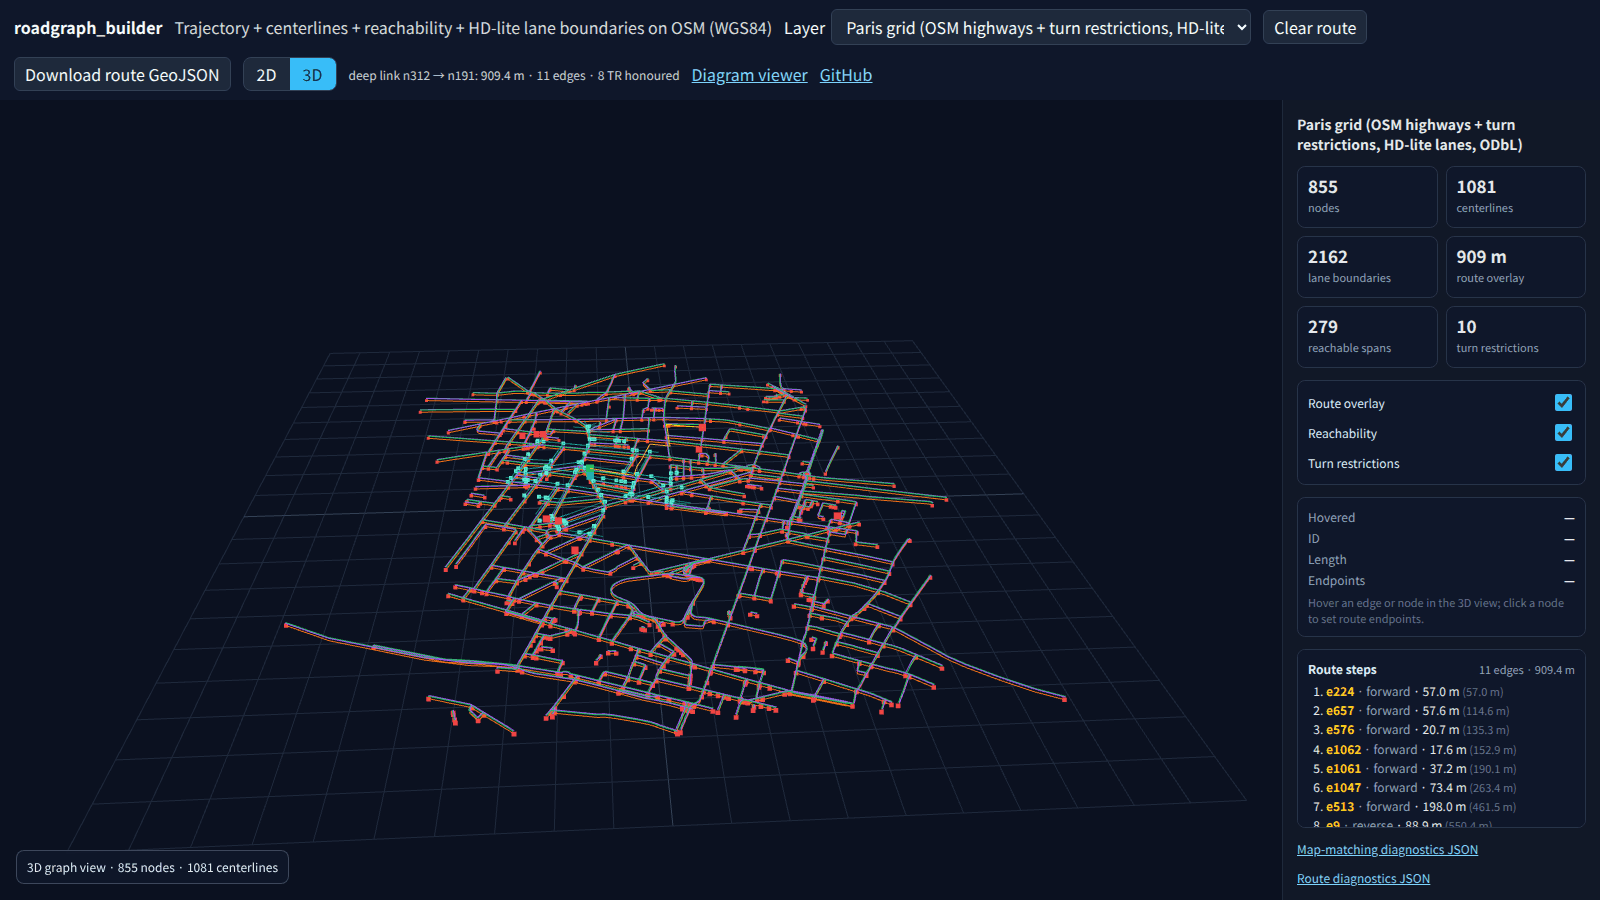
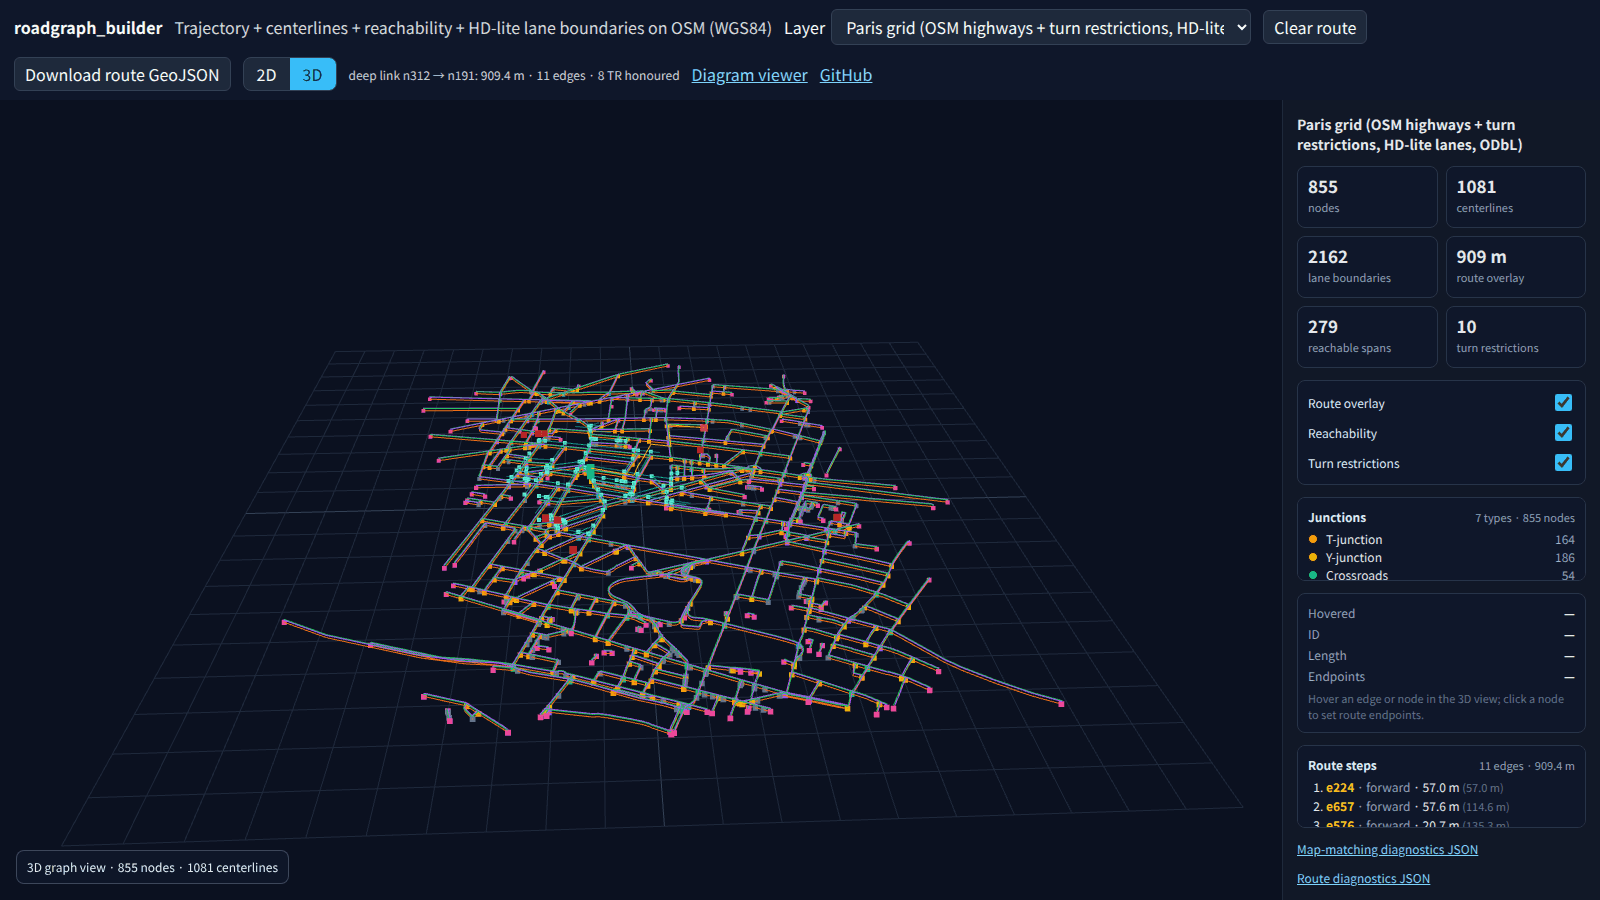
feat(viewer): colour graph nodes by junction type in 2D and 3D
All graph nodes rendered as one uniform red dot, so crossroads, T-
junctions, complex junctions, dead ends, and through-corners all
looked identical on the console. The pipeline actually classifies
every node as junction_type (for multi_branch subtypes: t_junction /
y_junction / crossroads / x_junction / complex_junction) or
junction_hint (the fallback: through_or_corner / dead_end / self_loop
/ cul_de_sac / other), and each GeoJSON node feature already carries
that classification. The viewer just was not reading it.

This change paints that classification.

Palette + helpers. docs/js/map_console.js gains JUNCTION_ORDER,
JUNCTION_COLORS, and JUNCTION_LABELS with a junctionCategory(props)
helper (junction_type wins, junction_hint is the fallback, unknown
values collapse to "other"). The palette stays readable on both the
light OSM basemap and the dark 3D canvas: T = amber, Y = yellow,
crossroads = emerald, X = cyan, complex = violet, through/corner =
slate, dead end = pink, self-loop = rose, cul-de-sac = fuchsia.

2D. pointLayer(kind=node) now uses the category fill, keeping the
dark outline so markers stay legible over OSM tiles.

3D. The node Points cloud switched from a single PointsMaterial
colour to vertexColors:true with a Float32BufferAttribute('color')
built during render3DScene(). threeState.nodeCategories[] runs in
parallel with nodeIds so pickSceneHit() can return a category on node
hits; setHoverCard() now reports "Node · T-junction" (etc.) on 3D
[…]

diff --git a/docs/js/map_console.js b/docs/js/map_console.js
@@ -29,9 +29,80 @@ let activeStats = {};
 let threeModule = null;
 let threeState = null;
 
+// Graph node colouring keyed off pipeline.junction_topology classification.
+// junction_type (subtype of multi_branch: t/y/crossroads/x/complex) wins over
+// junction_hint; "other" is the fallback for anything unexpected so the viewer
+// always paints something. Order here doubles as display order in the legend
+// and the inspector breakdown. Defined before the Leaflet legend so the
+// legend's onAdd (called synchronously by legend.addTo) can reference them.
+const JUNCTION_ORDER = [
+  "t_junction",
+  "y_junction",
+  "crossroads",
+  "x_junction",
+  "complex_junction",
+  "through_or_corner",
+  "dead_end",
+  "self_loop",
+  "cul_de_sac",
+  "other",
+];
+const JUNCTION_COLORS = {
+  t_junction: "#f59e0b",
+  y_junction: "#eab308",
+  crossroads: "#10b981",
+  x_junction: "#06b6d4",
+  complex_junction: "#8b5cf6",
+  through_or_corner: "#64748b",
+  dead_end: "#ec4899",
+  self_loop: "#f43f5e",
+  cul_de_sac: "#d946ef",
+  other: "#b91c1c",
+};
+const JUNCTION_LABELS = {
+  t_junction: "T-junction",
+  y_junction: "Y-junction",
+  crossroads: "Crossroads",
+  x_junction: "X-junction",
+  complex_junction: "Complex",
+  through_or_corner: "Through / corner",
+  dead_end: "Dead end",
+  self_loop: "Self-loop",
+  cul_de_sac: "Cul-de-sac",
+  other: "Other",
+};
+
+function junctionCategory(props) {
+  const raw =
+    (props && (props.junction_type || props.junction_hint)) || "other";
+  return JUNCTION_COLORS[raw] ? raw : "other";
+}
+
+function junctionColor(props) {
+  return JUNCTION_COLORS[junctionCategory(props)];
+}
+
 const legend = L.control({ position: "bottomright" });
 legend.onAdd = function () {
   const div = L.DomUtil.create("div", "map-legend");
+  const junctionRows = [
+    "t_junction",
+    "y_junction",
+    "crossroads",
+    "x_junction",
+    "complex_junction",
+    "through_or_corner",
+    "dead_end",
+  ]
+    .map(
+      (cat) =>
+        '<div class="lg"><span class="sw dot" style="background:' +
+        JUNCTION_COLORS[cat] +
+        ';border:2px solid #fff;box-sizing:border-box"></span> Node · ' +
+        JUNCTION_LABELS[cat] +
+        "</div>"
+    )
+    .join("");
   div.innerHTML =
     "<strong>Legend</strong>" +
     '<div class="lg"><span class="sw" style="background:#2563eb"></span> GPS trajectory</div>' +
@@ -40,7 +111,7 @@ legend.onAdd = function () {
     '<div class="lg"><span class="sw" style="background:#9333ea"></span> Lane boundary (R)</div>' +
     '<div class="lg"><span class="sw" style="background:#0f766e"></span> Reachable span</div>' +
     '<div class="lg"><span class="sw" style="background:#facc15"></span> Route (Dijkstra)</div>' +
-    '<div class="lg"><span class="sw dot" style="background:#b91c1c;border:2px solid #fff;box-sizing:border-box"></span> Graph node</div>' +
+    junctionRows +
     '<div class="lg"><span class="sw dot" style="background:#0f766e;border:2px solid #fff;box-sizing:border-box"></span> Reachability start</div>' +
     '<div class="lg"><span class="sw dot" style="background:#10b981;border:2px solid #fff;box-sizing:border-box"></span> Route start</div>' +
     '<div class="lg"><span class="sw dot" style="background:#ef4444;border:2px solid #fff;box-sizing:border-box"></span> Route end</div>' +
@@ -118,9 +189,9 @@ function pointLayer(f, latlng) {
   if (k === "node") {
     return L.circleMarker(latlng, {
       radius: 6,
-      fillColor: "#b91c1c",
-      color: "#fff",
-      weight: 2,
+      fillColor: junctionColor(f.properties || {}),
+      color: "#0f172a",
+      weight: 1.5,
       opacity: 1,
       fillOpacity: 0.95,
     });
@@ -362,7 +433,13 @@ function pickSceneHit() {
     if (inters.length) {
       const index = inters[0].index || 0;
       const nodeId = s.nodeIds[index] || null;
-      return { kind: "node", nodeId, distance: inters[0].distance };
+      const category = s.nodeCategories ? s.nodeCategories[index] || null : null;
+      return {
+        kind: "node",
+        nodeId,
+        category,
+        distance: inters[0].distance,
+      };
     }
   }
   if (s.pickableLines.length) {
@@ -417,7 +494,10 @@ function setHoverCard(hit) {
     return;
   }
   if (hit.kind === "node") {
-    kindEl.textContent = "Node";
+    const categoryLabel = hit.category
+      ? JUNCTION_LABELS[hit.category] || hit.category
+      : "Node";
+    kindEl.textContent = "Node · " + categoryLabel;
     labelEl.textContent = "Node ID";
     idEl.textContent = hit.nodeId || "—";
     lenEl.textContent = "—";
@@ -548,17 +628,32 @@ async function render3DScene() {
 
     const nodePoints = [];
     const nodeIds = [];
+    const nodeColors = [];
+    const nodeCategories = [];
     for (const feature of (scenePayload.base.features || [])) {
       if (feature.properties?.kind !== "node" || feature.geometry?.type !== "Point") continue;
       nodePoints.push(point(feature.geometry.coordinates, "node"));
       nodeIds.push(String(feature.properties.node_id || ""));
+      const category = junctionCategory(feature.properties);
+      nodeCategories.push(category);
+      const col = new THREE.Color(JUNCTION_COLORS[category]);
+      nodeColors.push(col.r, col.g, col.b);
     }
     threeState.pickableNodePoints = null;
     threeState.nodeIds = nodeIds;
+    threeState.nodeCategories = nodeCategories;
     threeState.nodePositions = nodePoints;
     if (nodePoints.length) {
       const geom = new THREE.BufferGeometry().setFromPoints(nodePoints);
-      const mat = new THREE.PointsMaterial({ color: 0xef4444, size: 2.8, sizeAttenuation: true });
+      geom.setAttribute(
+        "color",
+        new THREE.Float32BufferAttribute(nodeColors, 3)
+      );
+      const mat = new THREE.PointsMaterial({
+        vertexColors: true,
+        size: 3.4,
+        sizeAttenuation: true,
+      });
       const pts = new THREE.Points(geom, mat);
       root.add(pts);
       threeState.pickableNodePoints = pts;
@@ -719,15 +814,51 @@ function summarizeBase(data) {
     routeLength: NaN,
     reachableEdges: 0,
     restrictions: 0,
+    junctionCounts: {},
   };
   for (const f of data.features || []) {
     const p = f.properties || {};
-    if (p.kind === "node") stats.nodes += 1;
+    if (p.kind === "node") {
+      stats.nodes += 1;
+      const cat = junctionCategory(p);
+      stats.junctionCounts[cat] = (stats.junctionCounts[cat] || 0) + 1;
+    }
     if (p.kind === "centerline" || p.kind === "lane_centerline") stats.edges += 1;
     if (p.kind === "lane_boundary_left" || p.kind === "lane_boundary_right") stats.lanes += 1;
     if (p.kind === "trajectory") stats.trajectory += 1;
   }
   return stats;
+}
+
+function renderJunctionsBreakdown(counts, totalNodes) {
+  const list = document.getElementById("junctions-list");
+  const total = document.getElementById("junctions-total");
+  const card = document.getElementById("junctions-card");
+  if (!list || !total || !card) return;
+  list.innerHTML = "";
+  let shown = 0;
+  for (const cat of JUNCTION_ORDER) {
+    const n = counts?.[cat] || 0;
+    if (!n) continue;
+    shown += 1;
+    const li = document.createElement("li");
+    const dot = document.createElement("span");
+    dot.className = "jdot";
+    dot.style.background = JUNCTION_COLORS[cat];
+    const label = document.createElement("span");
+    label.className = "jlabel";
+    label.textContent = JUNCTION_LABELS[cat] || cat;
+    const count = document.createElement("span");
+    count.className = "jcount";
+    count.textContent = String(n);
+    li.appendChild(dot);
+    li.appendChild(label);
+    li.appendChild(count);
+    list.appendChild(li);
+  }
+  total.textContent =
+    shown > 0 ? `${shown} types · ${totalNodes} nodes` : `${totalNodes} nodes`;
+  card.hidden = !shown;
 }
 
 function routeLengthFromGeo(data) {
@@ -1310,6 +1441,7 @@ async function show(which) {
   scenePayload = { base: data, route: null, reachable: null, restrictions: [] };
   activeStats = summarizeBase(data);
   updateInspector(which, activeStats);
+  renderJunctionsBreakdown(activeStats.junctionCounts, activeStats.nodes);
 
   const gj = L.geoJSON(data, {
     style: styleLine,

diff --git a/docs/map.html b/docs/map.html
@@ -207,6 +207,60 @@
         color: #64748b;
         font-size: 11px;
       }
+      .junctions-card {
+        display: grid;
+        gap: 6px;
+        padding: 10px;
+        border: 1px solid #273449;
+        border-radius: 8px;
+        background: #0f172a;
+        font-size: 12px;
+        color: #e5e7eb;
+        max-height: 180px;
+        overflow: auto;
+      }
+      .junctions-head {
+        display: flex;
+        justify-content: space-between;
+        align-items: baseline;
+        color: #dbeafe;
+      }
+      .junctions-head strong {
+        font-size: 12px;
+      }
+      .junctions-head span {
+        color: #94a3b8;
+        font-size: 11px;
+      }
+      .junctions-list {
+        list-style: none;
+        margin: 0;
+        padding: 0;
+        display: grid;
+        gap: 3px;
+      }
+      .junctions-list li {
+        display: flex;
+        align-items: center;
+        gap: 8px;
+        line-height: 1.25;
+      }
+      .junctions-list .jdot {
+        display: inline-block;
+        width: 10px;
+        height: 10px;
+        border-radius: 50%;
+        border: 1px solid #0b1220;
+        flex: 0 0 auto;
+      }
+      .junctions-list .jlabel {
+        flex: 1 1 auto;
+        color: #e5e7eb;
+      }
+      .junctions-list .jcount {
+        color: #94a3b8;
+        font-variant-numeric: tabular-nums;
+      }
       .bar {
         position: relative;
         z-index: 10;
@@ -388,6 +442,13 @@
           <label>Route overlay <input type="checkbox" id="toggle-route" checked /></label>
           <label>Reachability <input type="checkbox" id="toggle-reachability" checked /></label>
           <label>Turn restrictions <input type="checkbox" id="toggle-restrictions" checked /></label>
+        </div>
+        <div class="junctions-card" id="junctions-card" aria-label="Junction types">
+          <div class="junctions-head">
+            <strong>Junctions</strong>
+            <span id="junctions-total">—</span>
+          </div>
+          <ul class="junctions-list" id="junctions-list"></ul>
         </div>
         <div class="hover-card" id="hover-card" aria-live="polite">
           <div class="hover-row"><span>Hovered</span><strong id="hover-kind">—</strong></div>

diff --git a/docs/PLAN.md b/docs/PLAN.md
@@ -6,7 +6,7 @@
 > このファイル → [`docs/ARCHITECTURE.md`](./ARCHITECTURE.md)（Mermaid 6 枚 + CLI 対応表 +
 > モジュール索引）→ [`CHANGELOG.md`](../CHANGELOG.md) の順。
 
-*最終更新: 2026-04-24 session（V1 実測 / camera warning fix / perf flake fix / docs sync / completions sync / Paris accuracy refresh / Berlin tuning sweep / README+docs visual preview + measured-results cards polish + README measured-results compacting / float32 opt-in + drift report + compare script + 1M synthetic memory profile + OSM public-trace replay profile / release bundle byte + normalized-manifest gate + manifest policy docs polish / private repo Pages blocked note / CLI boundary split wave 完了 / README release surface 整理 / v0.7.1 release + asset verification / packaging metadata smoke / 0.7.2.dev0 reopen / Actions Node24 update / release+PyPI dry-run / routing hot-path perf / nearest spatial index / cache invalidation hardening / build graph spatial merge perf / T-junction segment index perf / lean near-parallel merge loop / GeoJSON export compact path / compact bundle JSON writer / README quick-start smoke / release readiness dry-run refresh / reachable service-area CLI / reachable docs overlay / reachable benchmark coverage / benchmark baseline JSON / reachability analyzer perf / routing core split / RoutePlanner perf / GitHub star-growth surfaces / launch kit docs / safe A* routing / route explain diagnostics / route explain docs surface / route explain comparison UI / route diagnostics README screenshot / functional shortest_path planner cache + sampled validation / nearest-edge projection index / match-trajectory explain diagnostics / HMM bridge ambiguity benchmark / HMM adjacency reuse perf / HMM tail-cost cache / HMM long trajectory benchmark / edge-index cell tuning / 2D/3D map console / PLAN handoff expansion / map console pushed + CI green / Claude handoff refresh / map console hero screenshots / map console browser smoke opt-in pytest / map console JS split + 3D raycaster picking / map console deep link + route steps inspector / map console route export + deep-link 自動 fit + hero screenshot refresh / Paris grid + Berlin Mitte HD-lite lanes & committed viewer dataset）を反映済み。*
+*最終更新: 2026-04-24 session（V1 実測 / camera warning fix / perf flake fix / docs sync / completions sync / Paris accuracy refresh / Berlin tuning sweep / README+docs visual preview + measured-results cards polish + README measured-results compacting / float32 opt-in + drift report + compare script + 1M synthetic memory profile + OSM public-trace replay profile / release bundle byte + normalized-manifest gate + manifest policy docs polish / private repo Pages blocked note / CLI boundary split wave 完了 / README release surface 整理 / v0.7.1 release + asset verification / packaging metadata smoke / 0.7.2.dev0 reopen / Actions Node24 update / release+PyPI dry-run / routing hot-path perf / nearest spatial index / cache invalidation hardening / build graph spatial merge perf / T-junction segment index perf / lean near-parallel merge loop / GeoJSON export compact path / compact bundle JSON writer / README quick-start smoke / release readiness dry-run refresh / reachable service-area CLI / reachable docs overlay / reachable benchmark coverage / benchmark baseline JSON / reachability analyzer perf / routing core split / RoutePlanner perf / GitHub star-growth surfaces / launch kit docs / safe A* routing / route explain diagnostics / route explain docs surface / route explain comparison UI / route diagnostics README screenshot / functional shortest_path planner cache + sampled validation / nearest-edge projection index / match-trajectory explain diagnostics / HMM bridge ambiguity benchmark / HMM adjacency reuse perf / HMM tail-cost cache / HMM long trajectory benchmark / edge-index cell tuning / 2D/3D map console / PLAN handoff expansion / map console pushed + CI green / Claude handoff refresh / map console hero screenshots / map console browser smoke opt-in pytest / map console JS split + 3D raycaster picking / map console deep link + route steps inspector / map console route export + deep-link 自動 fit + hero screenshot refresh / Paris grid + Berlin Mitte HD-lite lanes & committed viewer dataset / junction topology color coding）を反映済み。*
 
 ---
 
@@ -360,6 +360,20 @@
       viewer dropdown と `DATASET_URLS` に Berlin Mitte を追加、`ATTRIBUTION.md` に由来 / refetch
       レシピを明記。hero screenshots（2D / 3D）を再生成して緑・紫の lane boundary dash が見える状態に。
       browser smoke に `selectOption('#dataset','berlin_mitte') → #stat-lanes > 1000` アサートを追加。
+  78. junction topology の viewer 可視化。
+      `docs/js/map_console.js` に `JUNCTION_ORDER` / `JUNCTION_COLORS` / `JUNCTION_LABELS` +
+      `junctionCategory(props)` / `junctionColor(props)` を追加（`junction_type` 優先、fallback
+      `junction_hint`、unknown は `other`）。2D は `pointLayer()` が `kind=node` の fillColor を
+      category 色に、3D は node `Points` cloud が per-vertex `THREE.Float32BufferAttribute('color')`
+      + `vertexColors: true` で同じ色を使う。`threeState.nodeCategories[]` を `pickSceneHit()` と
+      `setHoverCard()` に渡し、hover card の "Node" 行を `Node · T-junction` 等に拡張。
+      inspector 右側に `#junctions-card`（色付き swatch + ラベル + カウント、types / nodes の
+      合計）を追加、`renderJunctionsBreakdown()` を `show()` で populate。Leaflet legend も
+      junction 種別ごとの swatch を含むよう拡張。JUNCTION 定数は legend onAdd より上に宣言する必要
+      あり（const は TDZ 中アクセス不可、legend.addTo が即時 onAdd を呼ぶため）。
+      browser smoke に `#junctions-card` / `#junctions-list li >= 4` / `N types · N nodes` assert
+      を追加し、hero screenshots を再生成。Paris grid で 7 categories (t/y/crossroads/x/complex/
+      through/dead) が色分け表示される状態。
 - **push 方針:** `git push` は user が `push!` などで明示するまで実行しない。
 - **未着手 (次の AI が触る候補):** ↓ §5 "Open tasks" 参照。
 

diff --git a/README.md b/README.md
@@ -242,7 +242,7 @@ When Pages is available (public repo, Pages-capable private repo plan, or a sepa
 1. In the GitHub repo: **Settings → Pages → Build and deployment → Source**: **Deploy from a branch**, branch **`main`**, folder **`/docs`**, Save.
 2. After a minute, open the Pages URL shown by GitHub:
    - site root — diagram viewer (SVG-style pan/zoom)
-   - `map.html` — **real basemap + 3D graph console** (OSM tiles + GeoJSON: trajectory, centerlines, nodes, **HD-lite lane boundaries** when `attributes.hd` is filled — bundled assets use `enrich --lane-width-m 3.5` via `scripts/refresh_docs_assets.py`). Toggle between 2D Leaflet and a Three.js graph preview, inspect node/edge/lane/route/reachability/restriction counts, and switch route / reachability / restriction overlays without reloading. Click any two nodes to route between them; the JS Dijkstra is **directed-state and TR-aware** when the dataset ships a restrictions overlay, and dynamic routes update the 3D view and the **Route steps** inspector card (per-edge id, direction, length, cumulative) in lockstep. In 3D, hovering pauses auto-rotate and a `THREE.Raycaster` fills the **Hovered** card (kind, id, length, endpoints); clicking a node drives the same click-to-route as the 2D map. URL parameters are honoured and mirrored: `?view=3d`, `?dataset=…`, and `?from=nXXX&to=nYYY` all restore state, drawing a route rewrites `from` / `to` via `history.replaceState` so the current route is copy-pasteable, the 2D view auto-fits the route bounds on deep-link entry, and `Download route GeoJSON` exports the current route as a `route_<dataset>_<from>_<to>.geojson` FeatureCollection. The dropdown selects between four datasets:
+   - `map.html` — **real basemap + 3D graph console** (OSM tiles + GeoJSON: trajectory, centerlines, **HD-lite lane boundaries** when `attributes.hd` is filled — bundled assets use `enrich --lane-width-m 3.5` via `scripts/refresh_docs_assets.py` — and **nodes colour-coded by junction type** via the pipeline's `junction_type` / `junction_hint` classification: T, Y, crossroads, X, complex, through/corner, dead end, self-loop). Toggle between 2D Leaflet and a Three.js graph preview, inspect node/edge/lane/route/reachability/restriction counts plus a per-dataset **Junctions breakdown** card, and switch route / reachability / restriction overlays without reloading. Click any two nodes to route between them; the JS Dijkstra is **directed-state and TR-aware** when the dataset ships a restrictions overlay, and dynamic routes update the 3D view and the **Route steps** inspector card (per-edge id, direction, length, cumulative) in lockstep. In 3D, hovering pauses auto-rotate and a `THREE.Raycaster` fills the **Hovered** card (kind, id, length, endpoints); clicking a node drives the same click-to-route as the 2D map. URL parameters are honoured and mirrored: `?view=3d`, `?dataset=…`, and `?from=nXXX&to=nYYY` all restore state, drawing a route rewrites `from` / `to` via `history.replaceState` so the current route is copy-pasteable, the 2D view auto-fits the route bounds on deep-link entry, and `Download route GeoJSON` exports the current route as a `route_<dataset>_<from>_<to>.geojson` FeatureCollection. The dropdown selects between four datasets:
      - **Paris grid** (default, 855 nodes / 1081 edges — derived from OSM highway ways, ships with 10 OSM turn restrictions as red-dot markers and a 500 m `reachable` overlay. ODbL.)
      - **Paris** (older, trajectory-derived, 123 edges / 223 nodes; from OSM public GPS, ODbL.)
      - **OSM Berlin sample** (4 edges, smaller).

diff --git a/CHANGELOG.md b/CHANGELOG.md
@@ -82,6 +82,19 @@ and this project adheres to [Semantic Versioning](https://semver.org/spec/v2.0.0
   browser smoke covers the `n312 → n191` deep link, asserting the card is
   visible, multiple steps render, and the URL retains `from` / `to`.
 
+- **Graph nodes in the map console are coloured by junction type.**
+  `docs/js/map_console.js` now reads `junction_type` / `junction_hint` from
+  every node feature and paints markers with a shared palette across the 2D
+  Leaflet view (per-marker fill) and the 3D Three.js scene (per-vertex
+  `THREE.Float32BufferAttribute('color')` + `vertexColors: true`). T / Y /
+  crossroads / X / complex junctions, through-or-corner spans, dead ends,
+  self-loops, and cul-de-sacs each get a distinct colour. A new
+  `#junctions-card` in the inspector lists the active dataset's category
+  counts with matching swatches, the hover card renders as `Node · T-junction`
+  (etc.) when picking in 3D, and the Leaflet legend grew colour rows for the
+  same palette. Browser smoke asserts the junctions breakdown is populated
+  (≥ 4 categories with the expected `N types · N nodes` header) on Paris grid.
+
 - **Paris grid and new Berlin Mitte viewer datasets ship HD-lite lanes.**
   `scripts/refresh_docs_assets.py` now runs `enrich_sd_to_hd(lane_width_m=
   3.5)` on the OSM-highway Paris grid, so `docs/assets/map_paris_grid.geojson`
